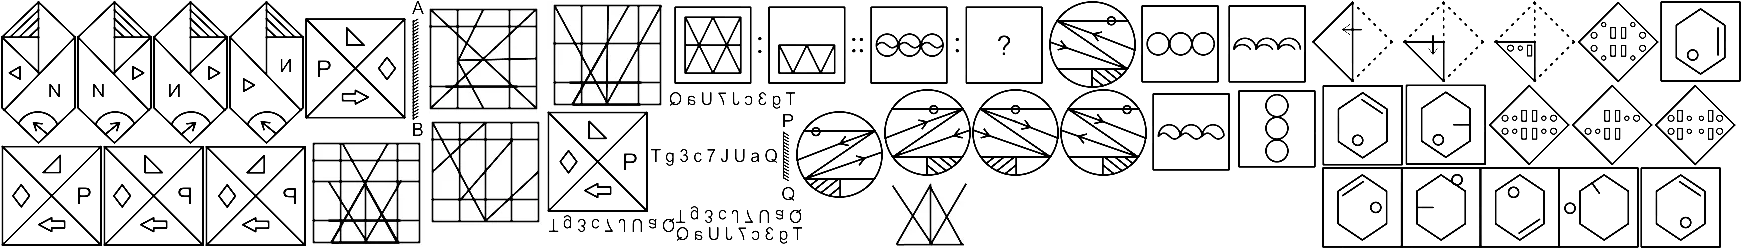
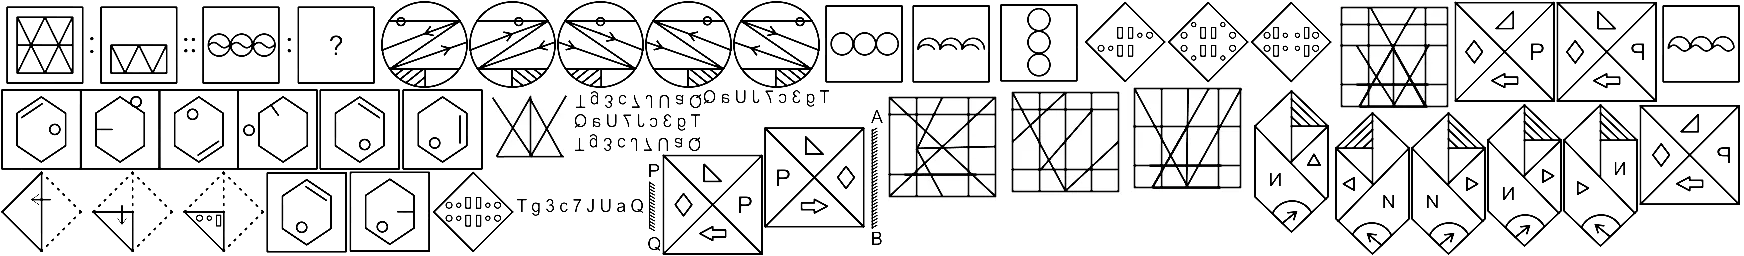
Fixed

Changed region(s): [[0.0, 0.0, 1.0, 1.0]]

diff --git a/img/police/mp/cons/prev/mp_pc_con_12_aug_2023_s1.css b/img/police/mp/cons/prev/mp_pc_con_12_aug_2023_s1.css
@@ -8,121 +8,124 @@ Responsive: <div class="yourspritesname"></div>
 
 
 .mp_pol_12_aug_2023_s1_53 {max-width:87px; max-height:87px; }
-.mp_pol_12_aug_2023_s1_53::after {content: '\00a0';display: inline-block; width:87px; height:87px; background-position: 48.096676737160124% 68.51851851851852%;background-size: 2002.2988505747126% 286.2068965517241%;background-image: url(mp_pc_con_12_aug_2023_s1.png);padding: 0; }
+.mp_pol_12_aug_2023_s1_53::after {content: '\00a0';display: inline-block; width:87px; height:87px; background-position: 22.99336149668075% 0.591715976331361%;background-size: 2004.5977011494253% 294.2528735632184%;background-image: url(mp_pc_con_12_aug_2023_s1.png);padding: 0; }
 div.mp_pol_12_aug_2023_s1_53::after {max-width:87px; width:100%;height:0;padding: 0 0 100% 0;}
 .mp_pol_12_aug_2023_s1_53_1 {max-width:87px; max-height:87px; }
-.mp_pol_12_aug_2023_s1_53_1::after {content: '\00a0';display: inline-block; width:87px; height:87px; background-position: 53.413897280966765% 54.93827160493827%;background-size: 2002.2988505747126% 286.2068965517241%;background-image: url(mp_pc_con_12_aug_2023_s1.png);padding: 0; }
+.mp_pol_12_aug_2023_s1_53_1::after {content: '\00a0';display: inline-block; width:87px; height:87px; background-position: 28.304164152082077% 0.591715976331361%;background-size: 2004.5977011494253% 294.2528735632184%;background-image: url(mp_pc_con_12_aug_2023_s1.png);padding: 0; }
 div.mp_pol_12_aug_2023_s1_53_1::after {max-width:87px; width:100%;height:0;padding: 0 0 100% 0;}
 .mp_pol_12_aug_2023_s1_53_2 {max-width:87px; max-height:87px; }
-.mp_pol_12_aug_2023_s1_53_2::after {content: '\00a0';display: inline-block; width:87px; height:87px; background-position: 58.73111782477341% 54.93827160493827%;background-size: 2002.2988505747126% 286.2068965517241%;background-image: url(mp_pc_con_12_aug_2023_s1.png);padding: 0; }
+.mp_pol_12_aug_2023_s1_53_2::after {content: '\00a0';display: inline-block; width:87px; height:87px; background-position: 33.614966807483405% 0.591715976331361%;background-size: 2004.5977011494253% 294.2528735632184%;background-image: url(mp_pc_con_12_aug_2023_s1.png);padding: 0; }
 div.mp_pol_12_aug_2023_s1_53_2::after {max-width:87px; width:100%;height:0;padding: 0 0 100% 0;}
 .mp_pol_12_aug_2023_s1_53_3 {max-width:87px; max-height:87px; }
-.mp_pol_12_aug_2023_s1_53_3::after {content: '\00a0';display: inline-block; width:87px; height:87px; background-position: 63.383685800604226% 0.6172839506172839%;background-size: 2002.2988505747126% 286.2068965517241%;background-image: url(mp_pc_con_12_aug_2023_s1.png);padding: 0; }
+.mp_pol_12_aug_2023_s1_53_3::after {content: '\00a0';display: inline-block; width:87px; height:87px; background-position: 38.92576946288473% 0.591715976331361%;background-size: 2004.5977011494253% 294.2528735632184%;background-image: url(mp_pc_con_12_aug_2023_s1.png);padding: 0; }
 div.mp_pol_12_aug_2023_s1_53_3::after {max-width:87px; width:100%;height:0;padding: 0 0 100% 0;}
 .mp_pol_12_aug_2023_s1_53_4 {max-width:87px; max-height:87px; }
-.mp_pol_12_aug_2023_s1_53_4::after {content: '\00a0';display: inline-block; width:87px; height:87px; background-position: 64.04833836858006% 54.93827160493827%;background-size: 2002.2988505747126% 286.2068965517241%;background-image: url(mp_pc_con_12_aug_2023_s1.png);padding: 0; }
+.mp_pol_12_aug_2023_s1_53_4::after {content: '\00a0';display: inline-block; width:87px; height:87px; background-position: 44.23657211828606% 0.591715976331361%;background-size: 2004.5977011494253% 294.2528735632184%;background-image: url(mp_pc_con_12_aug_2023_s1.png);padding: 0; }
 div.mp_pol_12_aug_2023_s1_53_4::after {max-width:87px; width:100%;height:0;padding: 0 0 100% 0;}
 .mp_pol_12_aug_2023_s1_55 {max-width:75px; max-height:143px; }
-.mp_pol_12_aug_2023_s1_55::after {content: '\00a0';display: inline-block; width:75px; height:143px; background-position: 0.059988002399520096% 0.9433962264150944%;background-size: 2322.6666666666665% 174.12587412587413%;background-image: url(mp_pc_con_12_aug_2023_s1.png);padding: 0; }
+.mp_pol_12_aug_2023_s1_55::after {content: '\00a0';display: inline-block; width:75px; height:143px; background-position: 79.98801677651288% 99.11504424778761%;background-size: 2325.3333333333335% 179.020979020979%;background-image: url(mp_pc_con_12_aug_2023_s1.png);padding: 0; }
 div.mp_pol_12_aug_2023_s1_55::after {max-width:75px; width:100%;height:0;padding: 0 0 190.66666666666666% 0;}
+.mp_pol_12_aug_2023_s1_55_1 {max-width:85px; max-height:153px; }
+.mp_pol_12_aug_2023_s1_55_1::after {content: '\00a0';display: inline-block; width:85px; height:153px; background-position: 75.28631705846895% 81.55339805825243%;background-size: 2051.764705882353% 167.3202614379085%;background-image: url(mp_pc_con_12_aug_2023_s1.png);padding: 0; }
+div.mp_pol_12_aug_2023_s1_55_1::after {max-width:85px; width:100%;height:0;padding: 0 0 180% 0;}
 .mp_pol_12_aug_2023_s1_55_2 {max-width:75px; max-height:143px; }
-.mp_pol_12_aug_2023_s1_55_2::after {content: '\00a0';display: inline-block; width:75px; height:143px; background-position: 4.619076184763047% 0.9433962264150944%;background-size: 2322.6666666666665% 174.12587412587413%;background-image: url(mp_pc_con_12_aug_2023_s1.png);padding: 0; }
+.mp_pol_12_aug_2023_s1_55_2::after {content: '\00a0';display: inline-block; width:75px; height:143px; background-position: 84.54164170161773% 99.11504424778761%;background-size: 2325.3333333333335% 179.020979020979%;background-image: url(mp_pc_con_12_aug_2023_s1.png);padding: 0; }
 div.mp_pol_12_aug_2023_s1_55_2::after {max-width:75px; width:100%;height:0;padding: 0 0 190.66666666666666% 0;}
 .mp_pol_12_aug_2023_s1_55_3 {max-width:75px; max-height:143px; }
-.mp_pol_12_aug_2023_s1_55_3::after {content: '\00a0';display: inline-block; width:75px; height:143px; background-position: 9.178164367126575% 0.9433962264150944%;background-size: 2322.6666666666665% 174.12587412587413%;background-image: url(mp_pc_con_12_aug_2023_s1.png);padding: 0; }
+.mp_pol_12_aug_2023_s1_55_3::after {content: '\00a0';display: inline-block; width:75px; height:143px; background-position: 89.09526662672259% 92.03539823008849%;background-size: 2325.3333333333335% 179.020979020979%;background-image: url(mp_pc_con_12_aug_2023_s1.png);padding: 0; }
 div.mp_pol_12_aug_2023_s1_55_3::after {max-width:75px; width:100%;height:0;padding: 0 0 190.66666666666666% 0;}
 .mp_pol_12_aug_2023_s1_55_4 {max-width:75px; max-height:143px; }
-.mp_pol_12_aug_2023_s1_55_4::after {content: '\00a0';display: inline-block; width:75px; height:143px; background-position: 13.737252549490101% 0.9433962264150944%;background-size: 2322.6666666666665% 174.12587412587413%;background-image: url(mp_pc_con_12_aug_2023_s1.png);padding: 0; }
+.mp_pol_12_aug_2023_s1_55_4::after {content: '\00a0';display: inline-block; width:75px; height:143px; background-position: 93.64889155182745% 92.03539823008849%;background-size: 2325.3333333333335% 179.020979020979%;background-image: url(mp_pc_con_12_aug_2023_s1.png);padding: 0; }
 div.mp_pol_12_aug_2023_s1_55_4::after {max-width:75px; width:100%;height:0;padding: 0 0 190.66666666666666% 0;}
 .mp_pol_12_aug_2023_s1_56 {max-width:379px; max-height:87px; }
-.mp_pol_12_aug_2023_s1_56::after {content: '\00a0';display: inline-block; width:379px; height:87px; background-position: 49.08290535583272% 0.6172839506172839%;background-size: 459.6306068601583% 286.2068965517241%;background-image: url(mp_pc_con_12_aug_2023_s1.png);padding: 0; }
+.mp_pol_12_aug_2023_s1_56::after {content: '\00a0';display: inline-block; width:379px; height:87px; background-position: 0.07326007326007326% 0.591715976331361%;background-size: 460.15831134564644% 294.2528735632184%;background-image: url(mp_pc_con_12_aug_2023_s1.png);padding: 0; }
 div.mp_pol_12_aug_2023_s1_56::after {max-width:379px; width:100%;height:0;padding: 0 0 22.95514511873351% 0;}
 .mp_pol_12_aug_2023_s1_56_1 {max-width:86px; max-height:87px; }
-.mp_pol_12_aug_2023_s1_56_1::after {content: '\00a0';display: inline-block; width:86px; height:87px; background-position: 68.65942028985508% 0.6172839506172839%;background-size: 2025.5813953488373% 286.2068965517241%;background-image: url(mp_pc_con_12_aug_2023_s1.png);padding: 0; }
+.mp_pol_12_aug_2023_s1_56_1::after {content: '\00a0';display: inline-block; width:86px; height:87px; background-position: 49.51749095295537% 0.591715976331361%;background-size: 2027.906976744186% 294.2528735632184%;background-image: url(mp_pc_con_12_aug_2023_s1.png);padding: 0; }
 div.mp_pol_12_aug_2023_s1_56_1::after {max-width:86px; width:100%;height:0;padding: 0 0 101.16279069767442% 0;}
 .mp_pol_12_aug_2023_s1_56_2 {max-width:87px; max-height:85px; }
-.mp_pol_12_aug_2023_s1_56_2::after {content: '\00a0';display: inline-block; width:87px; height:85px; background-position: 73.95770392749245% 0.6097560975609756%;background-size: 2002.2988505747126% 292.94117647058823%;background-image: url(mp_pc_con_12_aug_2023_s1.png);padding: 0; }
+.mp_pol_12_aug_2023_s1_56_2::after {content: '\00a0';display: inline-block; width:87px; height:85px; background-position: 54.7978273989137% 0.5847953216374269%;background-size: 2004.5977011494253% 301.1764705882353%;background-image: url(mp_pc_con_12_aug_2023_s1.png);padding: 0; }
 div.mp_pol_12_aug_2023_s1_56_2::after {max-width:87px; width:100%;height:0;padding: 0 0 97.70114942528735% 0;}
 .mp_pol_12_aug_2023_s1_56_3 {max-width:85px; max-height:86px; }
-.mp_pol_12_aug_2023_s1_56_3::after {content: '\00a0';display: inline-block; width:85px; height:86px; background-position: 69.28183464091732% 54.60122699386503%;background-size: 2049.4117647058824% 289.5348837209302%;background-image: url(mp_pc_con_12_aug_2023_s1.png);padding: 0; }
+.mp_pol_12_aug_2023_s1_56_3::after {content: '\00a0';display: inline-block; width:85px; height:86px; background-position: 99.93972272453286% 0.5882352941176471%;background-size: 2051.764705882353% 297.6744186046512%;background-image: url(mp_pc_con_12_aug_2023_s1.png);padding: 0; }
 div.mp_pol_12_aug_2023_s1_56_3::after {max-width:85px; width:100%;height:0;padding: 0 0 101.17647058823529% 0;}
 .mp_pol_12_aug_2023_s1_56_4 {max-width:87px; max-height:85px; }
-.mp_pol_12_aug_2023_s1_56_4::after {content: '\00a0';display: inline-block; width:87px; height:85px; background-position: 74.5619335347432% 53.048780487804876%;background-size: 2002.2988505747126% 292.94117647058823%;background-image: url(mp_pc_con_12_aug_2023_s1.png);padding: 0; }
+.mp_pol_12_aug_2023_s1_56_4::after {content: '\00a0';display: inline-block; width:87px; height:85px; background-position: 60.10863005431503% 0.5847953216374269%;background-size: 2004.5977011494253% 301.1764705882353%;background-image: url(mp_pc_con_12_aug_2023_s1.png);padding: 0; }
 div.mp_pol_12_aug_2023_s1_56_4::after {max-width:87px; width:100%;height:0;padding: 0 0 97.70114942528735% 0;}
 .mp_pol_12_aug_2023_s1_57 {max-width:119px; max-height:135px; }
-.mp_pol_12_aug_2023_s1_57::after {content: '\00a0';display: inline-block; width:119px; height:135px; background-position: 18.792359827479974% 0.8771929824561403%;background-size: 1463.8655462184875% 184.44444444444446%;background-image: url(mp_pc_con_12_aug_2023_s1.png);padding: 0; }
+.mp_pol_12_aug_2023_s1_57::after {content: '\00a0';display: inline-block; width:119px; height:135px; background-position: 47.01538461538462% 90.9090909090909%;background-size: 1465.546218487395% 189.62962962962962%;background-image: url(mp_pc_con_12_aug_2023_s1.png);padding: 0; }
 div.mp_pol_12_aug_2023_s1_57::after {max-width:119px; width:100%;height:0;padding: 0 0 113.4453781512605% 0;}
 .mp_pol_12_aug_2023_s1_57_1 {max-width:101px; max-height:101px; }
-.mp_pol_12_aug_2023_s1_57_1::after {content: '\00a0';display: inline-block; width:101px; height:101px; background-position: 33.333333333333336% 75%;background-size: 1724.7524752475247% 246.53465346534654%;background-image: url(mp_pc_con_12_aug_2023_s1.png);padding: 0; }
+.mp_pol_12_aug_2023_s1_57_1::after {content: '\00a0';display: inline-block; width:101px; height:101px; background-position: 40.29214850882532% 99.35483870967742%;background-size: 1726.7326732673268% 253.46534653465346%;background-image: url(mp_pc_con_12_aug_2023_s1.png);padding: 0; }
 div.mp_pol_12_aug_2023_s1_57_1::after {max-width:101px; width:100%;height:0;padding: 0 0 100% 0;}
 .mp_pol_12_aug_2023_s1_57_2 {max-width:101px; max-height:102px; }
-.mp_pol_12_aug_2023_s1_57_2::after {content: '\00a0';display: inline-block; width:101px; height:102px; background-position: 0.06093845216331505% 98.63945578231292%;background-size: 1724.7524752475247% 244.11764705882354%;background-image: url(mp_pc_con_12_aug_2023_s1.png);padding: 0; }
+.mp_pol_12_aug_2023_s1_57_2::after {content: '\00a0';display: inline-block; width:101px; height:102px; background-position: 88.49665246500304% 0.6493506493506493%;background-size: 1726.7326732673268% 250.98039215686273%;background-image: url(mp_pc_con_12_aug_2023_s1.png);padding: 0; }
 div.mp_pol_12_aug_2023_s1_57_2::after {max-width:101px; width:100%;height:0;padding: 0 0 100.99009900990099% 0;}
 .mp_pol_12_aug_2023_s1_57_3 {max-width:101px; max-height:102px; }
-.mp_pol_12_aug_2023_s1_57_3::after {content: '\00a0';display: inline-block; width:101px; height:102px; background-position: 6.27666057282145% 98.63945578231292%;background-size: 1724.7524752475247% 244.11764705882354%;background-image: url(mp_pc_con_12_aug_2023_s1.png);padding: 0; }
+.mp_pol_12_aug_2023_s1_57_3::after {content: '\00a0';display: inline-block; width:101px; height:102px; background-position: 94.70480827754109% 0.6493506493506493%;background-size: 1726.7326732673268% 250.98039215686273%;background-image: url(mp_pc_con_12_aug_2023_s1.png);padding: 0; }
 div.mp_pol_12_aug_2023_s1_57_3::after {max-width:101px; width:100%;height:0;padding: 0 0 100.99009900990099% 0;}
 .mp_pol_12_aug_2023_s1_57_4 {max-width:101px; max-height:102px; }
-.mp_pol_12_aug_2023_s1_57_4::after {content: '\00a0';display: inline-block; width:101px; height:102px; background-position: 12.492382693479586% 98.63945578231292%;background-size: 1724.7524752475247% 244.11764705882354%;background-image: url(mp_pc_con_12_aug_2023_s1.png);padding: 0; }
+.mp_pol_12_aug_2023_s1_57_4::after {content: '\00a0';display: inline-block; width:101px; height:102px; background-position: 99.75654290931223% 67.53246753246754%;background-size: 1726.7326732673268% 250.98039215686273%;background-image: url(mp_pc_con_12_aug_2023_s1.png);padding: 0; }
 div.mp_pol_12_aug_2023_s1_57_4::after {max-width:101px; width:100%;height:0;padding: 0 0 100.99009900990099% 0;}
 .mp_pol_12_aug_2023_s1_59 {max-width:146px; max-height:93px; }
-.mp_pol_12_aug_2023_s1_59::after {content: '\00a0';display: inline-block; width:146px; height:93px; background-position: 40.664160401002505% 71.15384615384616%;background-size: 1193.150684931507% 267.741935483871%;background-image: url(mp_pc_con_12_aug_2023_s1.png);padding: 0; }
+.mp_pol_12_aug_2023_s1_59::after {content: '\00a0';display: inline-block; width:146px; height:93px; background-position: 32.22778473091364% 98.77300613496932%;background-size: 1194.5205479452054% 275.26881720430106%;background-image: url(mp_pc_con_12_aug_2023_s1.png);padding: 0; }
 div.mp_pol_12_aug_2023_s1_59::after {max-width:146px; width:100%;height:0;padding: 0 0 63.6986301369863% 0;}
 .mp_pol_12_aug_2023_s1_59_1 {max-width:127px; max-height:20px; }
-.mp_pol_12_aug_2023_s1_59_1::after {content: '\00a0';display: inline-block; width:127px; height:20px; background-position: 41.795665634674926% 89.51965065502183%;background-size: 1371.6535433070867% 1245%;background-image: url(mp_pc_con_12_aug_2023_s1.png);padding: 0; }
+.mp_pol_12_aug_2023_s1_59_1::after {content: '\00a0';display: inline-block; width:127px; height:20px; background-position: 35.497835497835496% 56.355932203389834%;background-size: 1373.2283464566929% 1280%;background-image: url(mp_pc_con_12_aug_2023_s1.png);padding: 0; }
 div.mp_pol_12_aug_2023_s1_59_1::after {max-width:127px; width:100%;height:0;padding: 0 0 15.748031496062993% 0;}
 .mp_pol_12_aug_2023_s1_59_2 {max-width:127px; max-height:21px; }
-.mp_pol_12_aug_2023_s1_59_2::after {content: '\00a0';display: inline-block; width:127px; height:21px; background-position: 33.869969040247675% 93.42105263157895%;background-size: 1371.6535433070867% 1185.7142857142858%;background-image: url(mp_pc_con_12_aug_2023_s1.png);padding: 0; }
+.mp_pol_12_aug_2023_s1_59_2::after {content: '\00a0';display: inline-block; width:127px; height:21px; background-position: 35.497835497835496% 37.87234042553192%;background-size: 1373.2283464566929% 1219.047619047619%;background-image: url(mp_pc_con_12_aug_2023_s1.png);padding: 0; }
 div.mp_pol_12_aug_2023_s1_59_2::after {max-width:127px; width:100%;height:0;padding: 0 0 16.53543307086614% 0;}
 .mp_pol_12_aug_2023_s1_59_3 {max-width:127px; max-height:20px; }
-.mp_pol_12_aug_2023_s1_59_3::after {content: '\00a0';display: inline-block; width:127px; height:20px; background-position: 41.795665634674926% 98.68995633187772%;background-size: 1371.6535433070867% 1245%;background-image: url(mp_pc_con_12_aug_2023_s1.png);padding: 0; }
+.mp_pol_12_aug_2023_s1_59_3::after {content: '\00a0';display: inline-block; width:127px; height:20px; background-position: 43.41372912801484% 37.71186440677966%;background-size: 1373.2283464566929% 1280%;background-image: url(mp_pc_con_12_aug_2023_s1.png);padding: 0; }
 div.mp_pol_12_aug_2023_s1_59_3::after {max-width:127px; width:100%;height:0;padding: 0 0 15.748031496062993% 0;}
 .mp_pol_12_aug_2023_s1_59_4 {max-width:127px; max-height:21px; }
-.mp_pol_12_aug_2023_s1_59_4::after {content: '\00a0';display: inline-block; width:127px; height:21px; background-position: 41.424148606811144% 39.03508771929825%;background-size: 1371.6535433070867% 1185.7142857142858%;background-image: url(mp_pc_con_12_aug_2023_s1.png);padding: 0; }
+.mp_pol_12_aug_2023_s1_59_4::after {content: '\00a0';display: inline-block; width:127px; height:21px; background-position: 35.497835497835496% 47.234042553191486%;background-size: 1373.2283464566929% 1219.047619047619%;background-image: url(mp_pc_con_12_aug_2023_s1.png);padding: 0; }
 div.mp_pol_12_aug_2023_s1_59_4::after {max-width:127px; width:100%;height:0;padding: 0 0 16.53543307086614% 0;}
 .mp_pol_12_aug_2023_s1_67 {max-width:317px; max-height:81px; }
-.mp_pol_12_aug_2023_s1_67::after {content: '\00a0';display: inline-block; width:317px; height:81px; background-position: 92.7719298245614% 99.4047619047619%;background-size: 549.5268138801262% 307.4074074074074%;background-image: url(mp_pc_con_12_aug_2023_s1.png);padding: 0; }
+.mp_pol_12_aug_2023_s1_67::after {content: '\00a0';display: inline-block; width:317px; height:81px; background-position: 0.0700770847932726% 50.857142857142854%;background-size: 550.1577287066247% 316.04938271604937%;background-image: url(mp_pc_con_12_aug_2023_s1.png);padding: 0; }
 div.mp_pol_12_aug_2023_s1_67::after {max-width:317px; width:100%;height:0;padding: 0 0 25.55205047318612% 0;}
 .mp_pol_12_aug_2023_s1_67_1 {max-width:81px; max-height:81px; }
-.mp_pol_12_aug_2023_s1_67_1::after {content: '\00a0';display: inline-block; width:81px; height:81px; background-position: 99.93979530403371% 0.5952380952380952%;background-size: 2150.617283950617% 307.4074074074074%;background-image: url(mp_pc_con_12_aug_2023_s1.png);padding: 0; }
+.mp_pol_12_aug_2023_s1_67_1::after {content: '\00a0';display: inline-block; width:81px; height:81px; background-position: 24.17318099819603% 50.857142857142854%;background-size: 2153.0864197530864% 316.04938271604937%;background-image: url(mp_pc_con_12_aug_2023_s1.png);padding: 0; }
 div.mp_pol_12_aug_2023_s1_67_1::after {max-width:81px; width:100%;height:0;padding: 0 0 100% 0;}
 .mp_pol_12_aug_2023_s1_67_2 {max-width:82px; max-height:81px; }
-.mp_pol_12_aug_2023_s1_67_2::after {content: '\00a0';display: inline-block; width:82px; height:81px; background-position: 98.79518072289157% 99.4047619047619%;background-size: 2124.390243902439% 307.4074074074074%;background-image: url(mp_pc_con_12_aug_2023_s1.png);padding: 0; }
+.mp_pol_12_aug_2023_s1_67_2::after {content: '\00a0';display: inline-block; width:82px; height:81px; background-position: 19.193742478941036% 50.857142857142854%;background-size: 2126.829268292683% 316.04938271604937%;background-image: url(mp_pc_con_12_aug_2023_s1.png);padding: 0; }
 div.mp_pol_12_aug_2023_s1_67_2::after {max-width:82px; width:100%;height:0;padding: 0 0 98.78048780487805% 0;}
 .mp_pol_12_aug_2023_s1_67_3 {max-width:82px; max-height:82px; }
-.mp_pol_12_aug_2023_s1_67_3::after {content: '\00a0';display: inline-block; width:82px; height:82px; background-position: 79.63855421686748% 50.29940119760479%;background-size: 2124.390243902439% 303.6585365853659%;background-image: url(mp_pc_con_12_aug_2023_s1.png);padding: 0; }
+.mp_pol_12_aug_2023_s1_67_3::after {content: '\00a0';display: inline-block; width:82px; height:82px; background-position: 16.004813477737667% 98.27586206896552%;background-size: 2126.829268292683% 312.1951219512195%;background-image: url(mp_pc_con_12_aug_2023_s1.png);padding: 0; }
 div.mp_pol_12_aug_2023_s1_67_3::after {max-width:82px; width:100%;height:0;padding: 0 0 100% 0;}
 .mp_pol_12_aug_2023_s1_67_4 {max-width:82px; max-height:82px; }
-.mp_pol_12_aug_2023_s1_67_4::after {content: '\00a0';display: inline-block; width:82px; height:82px; background-position: 84.63855421686748% 50.29940119760479%;background-size: 2124.390243902439% 303.6585365853659%;background-image: url(mp_pc_con_12_aug_2023_s1.png);padding: 0; }
+.mp_pol_12_aug_2023_s1_67_4::after {content: '\00a0';display: inline-block; width:82px; height:82px; background-position: 20.998796630565582% 98.27586206896552%;background-size: 2126.829268292683% 312.1951219512195%;background-image: url(mp_pc_con_12_aug_2023_s1.png);padding: 0; }
 div.mp_pol_12_aug_2023_s1_67_4::after {max-width:82px; width:100%;height:0;padding: 0 0 100% 0;}
 .mp_pol_12_aug_2023_s1_69 {max-width:264px; max-height:82px; }
-.mp_pol_12_aug_2023_s1_69::after {content: '\00a0';display: inline-block; width:264px; height:82px; background-position: 88.76860622462787% 0.5988023952095808%;background-size: 659.8484848484849% 303.6585365853659%;background-image: url(mp_pc_con_12_aug_2023_s1.png);padding: 0; }
+.mp_pol_12_aug_2023_s1_69::after {content: '\00a0';display: inline-block; width:264px; height:82px; background-position: 0.06756756756756757% 98.27586206896552%;background-size: 660.6060606060606% 312.1951219512195%;background-image: url(mp_pc_con_12_aug_2023_s1.png);padding: 0; }
 div.mp_pol_12_aug_2023_s1_69::after {max-width:264px; width:100%;height:0;padding: 0 0 31.060606060606062% 0;}
 .mp_pol_12_aug_2023_s1_69_1 {max-width:82px; max-height:82px; }
-.mp_pol_12_aug_2023_s1_69_1::after {content: '\00a0';display: inline-block; width:82px; height:82px; background-position: 89.63855421686748% 50.29940119760479%;background-size: 2124.390243902439% 303.6585365853659%;background-image: url(mp_pc_con_12_aug_2023_s1.png);padding: 0; }
+.mp_pol_12_aug_2023_s1_69_1::after {content: '\00a0';display: inline-block; width:82px; height:82px; background-position: 25.9927797833935% 98.27586206896552%;background-size: 2126.829268292683% 312.1951219512195%;background-image: url(mp_pc_con_12_aug_2023_s1.png);padding: 0; }
 div.mp_pol_12_aug_2023_s1_69_1::after {max-width:82px; width:100%;height:0;padding: 0 0 100% 0;}
 .mp_pol_12_aug_2023_s1_69_2 {max-width:82px; max-height:82px; }
-.mp_pol_12_aug_2023_s1_69_2::after {content: '\00a0';display: inline-block; width:82px; height:82px; background-position: 94.63855421686748% 50.29940119760479%;background-size: 2124.390243902439% 303.6585365853659%;background-image: url(mp_pc_con_12_aug_2023_s1.png);padding: 0; }
+.mp_pol_12_aug_2023_s1_69_2::after {content: '\00a0';display: inline-block; width:82px; height:82px; background-position: 65.22262334536703% 0.5747126436781609%;background-size: 2126.829268292683% 312.1951219512195%;background-image: url(mp_pc_con_12_aug_2023_s1.png);padding: 0; }
 div.mp_pol_12_aug_2023_s1_69_2::after {max-width:82px; width:100%;height:0;padding: 0 0 100% 0;}
 .mp_pol_12_aug_2023_s1_69_3 {max-width:82px; max-height:82px; }
-.mp_pol_12_aug_2023_s1_69_3::after {content: '\00a0';display: inline-block; width:82px; height:82px; background-position: 95% 0.5988023952095808%;background-size: 2124.390243902439% 303.6585365853659%;background-image: url(mp_pc_con_12_aug_2023_s1.png);padding: 0; }
+.mp_pol_12_aug_2023_s1_69_3::after {content: '\00a0';display: inline-block; width:82px; height:82px; background-position: 70.21660649819495% 0.5747126436781609%;background-size: 2126.829268292683% 312.1951219512195%;background-image: url(mp_pc_con_12_aug_2023_s1.png);padding: 0; }
 div.mp_pol_12_aug_2023_s1_69_3::after {max-width:82px; width:100%;height:0;padding: 0 0 100% 0;}
 .mp_pol_12_aug_2023_s1_69_4 {max-width:82px; max-height:82px; }
-.mp_pol_12_aug_2023_s1_69_4::after {content: '\00a0';display: inline-block; width:82px; height:82px; background-position: 99.63855421686748% 50.29940119760479%;background-size: 2124.390243902439% 303.6585365853659%;background-image: url(mp_pc_con_12_aug_2023_s1.png);padding: 0; }
+.mp_pol_12_aug_2023_s1_69_4::after {content: '\00a0';display: inline-block; width:82px; height:82px; background-position: 75.21058965102286% 0.5747126436781609%;background-size: 2126.829268292683% 312.1951219512195%;background-image: url(mp_pc_con_12_aug_2023_s1.png);padding: 0; }
 div.mp_pol_12_aug_2023_s1_69_4::after {max-width:82px; width:100%;height:0;padding: 0 0 100% 0;}
 .mp_pol_12_aug_2023_s1_70 {max-width:89px; max-height:71px; }
-.mp_pol_12_aug_2023_s1_70::after {content: '\00a0';display: inline-block; width:89px; height:71px; background-position: 53.478523895946765% 99.43820224719101%;background-size: 1957.3033707865168% 350.7042253521127%;background-image: url(mp_pc_con_12_aug_2023_s1.png);padding: 0; }
+.mp_pol_12_aug_2023_s1_70::after {content: '\00a0';display: inline-block; width:89px; height:71px; background-position: 29.244712990936556% 48.108108108108105%;background-size: 1959.5505617977528% 360.5633802816901%;background-image: url(mp_pc_con_12_aug_2023_s1.png);padding: 0; }
 div.mp_pol_12_aug_2023_s1_70::after {max-width:89px; width:100%;height:0;padding: 0 0 79.7752808988764% 0;}
 .mp_pol_12_aug_2023_s1_70_1 {max-width:121px; max-height:115px; }
-.mp_pol_12_aug_2023_s1_70_1::after {content: '\00a0';display: inline-block; width:121px; height:115px; background-position: 26.21838371375694% 0.746268656716418%;background-size: 1439.6694214876034% 216.52173913043478%;background-image: url(mp_pc_con_12_aug_2023_s1.png);padding: 0; }
+.mp_pol_12_aug_2023_s1_70_1::after {content: '\00a0';display: inline-block; width:121px; height:115px; background-position: 54.467036352433766% 63.12056737588652%;background-size: 1441.3223140495868% 222.6086956521739%;background-image: url(mp_pc_con_12_aug_2023_s1.png);padding: 0; }
 div.mp_pol_12_aug_2023_s1_70_1::after {max-width:121px; width:100%;height:0;padding: 0 0 95.04132231404958% 0;}
 .mp_pol_12_aug_2023_s1_70_2 {max-width:118px; max-height:110px; }
-.mp_pol_12_aug_2023_s1_70_2::after {content: '\00a0';display: inline-block; width:118px; height:110px; background-position: 18.90394088669951% 98.56115107913669%;background-size: 1476.2711864406779% 226.36363636363637%;background-image: url(mp_pc_con_12_aug_2023_s1.png);padding: 0; }
+.mp_pol_12_aug_2023_s1_70_2::after {content: '\00a0';display: inline-block; width:118px; height:110px; background-position: 82.10332103321034% 0.684931506849315%;background-size: 1477.9661016949153% 232.72727272727272%;background-image: url(mp_pc_con_12_aug_2023_s1.png);padding: 0; }
 div.mp_pol_12_aug_2023_s1_70_2::after {max-width:118px; width:100%;height:0;padding: 0 0 93.22033898305085% 0;}
 .mp_pol_12_aug_2023_s1_70_3 {max-width:120px; max-height:112px; }
-.mp_pol_12_aug_2023_s1_70_3::after {content: '\00a0';display: inline-block; width:120px; height:112px; background-position: 26.263871763255242% 85.4014598540146%;background-size: 1451.6666666666667% 222.32142857142858%;background-image: url(mp_pc_con_12_aug_2023_s1.png);padding: 0; }
+.mp_pol_12_aug_2023_s1_70_3::after {content: '\00a0';display: inline-block; width:120px; height:112px; background-position: 61.94581280788177% 60.416666666666664%;background-size: 1453.3333333333333% 228.57142857142858%;background-image: url(mp_pc_con_12_aug_2023_s1.png);padding: 0; }
 div.mp_pol_12_aug_2023_s1_70_3::after {max-width:120px; width:100%;height:0;padding: 0 0 93.33333333333333% 0;}
 .mp_pol_12_aug_2023_s1_70_4 {max-width:121px; max-height:109px; }
-.mp_pol_12_aug_2023_s1_70_4::after {content: '\00a0';display: inline-block; width:121px; height:109px; background-position: 33.7446020974707% 0.7142857142857143%;background-size: 1439.6694214876034% 228.44036697247705%;background-image: url(mp_pc_con_12_aug_2023_s1.png);padding: 0; }
+.mp_pol_12_aug_2023_s1_70_4::after {content: '\00a0';display: inline-block; width:121px; height:109px; background-position: 69.43930991990142% 57.142857142857146%;background-size: 1441.3223140495868% 234.86238532110093%;background-image: url(mp_pc_con_12_aug_2023_s1.png);padding: 0; }
 div.mp_pol_12_aug_2023_s1_70_4::after {max-width:121px; width:100%;height:0;padding: 0 0 90.08264462809917% 0;}
 
-/* $TexturePacker:SmartUpdate:476b13d123c85bc8d6f71aa1a96dfe86:3aa377615679374f092294e24d56e28f:ac4079a8f9e42a43ad0d9ab619f95c5b$ */
+/* $TexturePacker:SmartUpdate:e80ba1191705986d39df28efcc3afbad:2a107f7a35c52ffb09baaaf60910e531:ac4079a8f9e42a43ad0d9ab619f95c5b$ */

diff --git a/img/police/bihar/prev/cons/bh_cons_set1.css b/img/police/bihar/prev/cons/bh_cons_set1.css
@@ -7,8 +7,11 @@ Responsive: <div class="yourspritesname"></div>
 */
 
 
+.bh_cons_2023_1_oct_s1_25 {max-width:77px; max-height:109px; }
+.bh_cons_2023_1_oct_s1_25::after {content: '\00a0';display: inline-block; width:77px; height:109px; background-position: 0.5681818181818182% 50%;background-size: 328.57142857142856% 101.8348623853211%;background-image: url(bh_cons_set1.jpg);padding: 0; }
+div.bh_cons_2023_1_oct_s1_25::after {max-width:77px; width:100%;height:0;padding: 0 0 141.55844155844156% 0;}
 .bh_cons_pre_14_mar_2021_1 {max-width:173px; max-height:83px; }
-.bh_cons_pre_14_mar_2021_1::after {content: '\00a0';display: inline-block; width:173px; height:83px; background-position: 50% 50%;background-size: 101.15606936416185% 102.40963855421687%;background-image: url(bh_cons_set1.jpg);padding: 0; }
+.bh_cons_pre_14_mar_2021_1::after {content: '\00a0';display: inline-block; width:173px; height:83px; background-position: 98.75% 3.5714285714285716%;background-size: 146.242774566474% 133.73493975903614%;background-image: url(bh_cons_set1.jpg);padding: 0; }
 div.bh_cons_pre_14_mar_2021_1::after {max-width:173px; width:100%;height:0;padding: 0 0 47.97687861271676% 0;}
 
-/* $TexturePacker:SmartUpdate:b3d181af97ae2be68b300b10c28c6e4b:cfcf3db4083cb31ff733ce8c5bef8d2c:0ee61a8423132206c7a04a27d2657d75$ */
+/* $TexturePacker:SmartUpdate:1ac7c112eee024aca20be02ccfb5a10d:da8bdc3d10995717225c8db034f43bda:0ee61a8423132206c7a04a27d2657d75$ */
